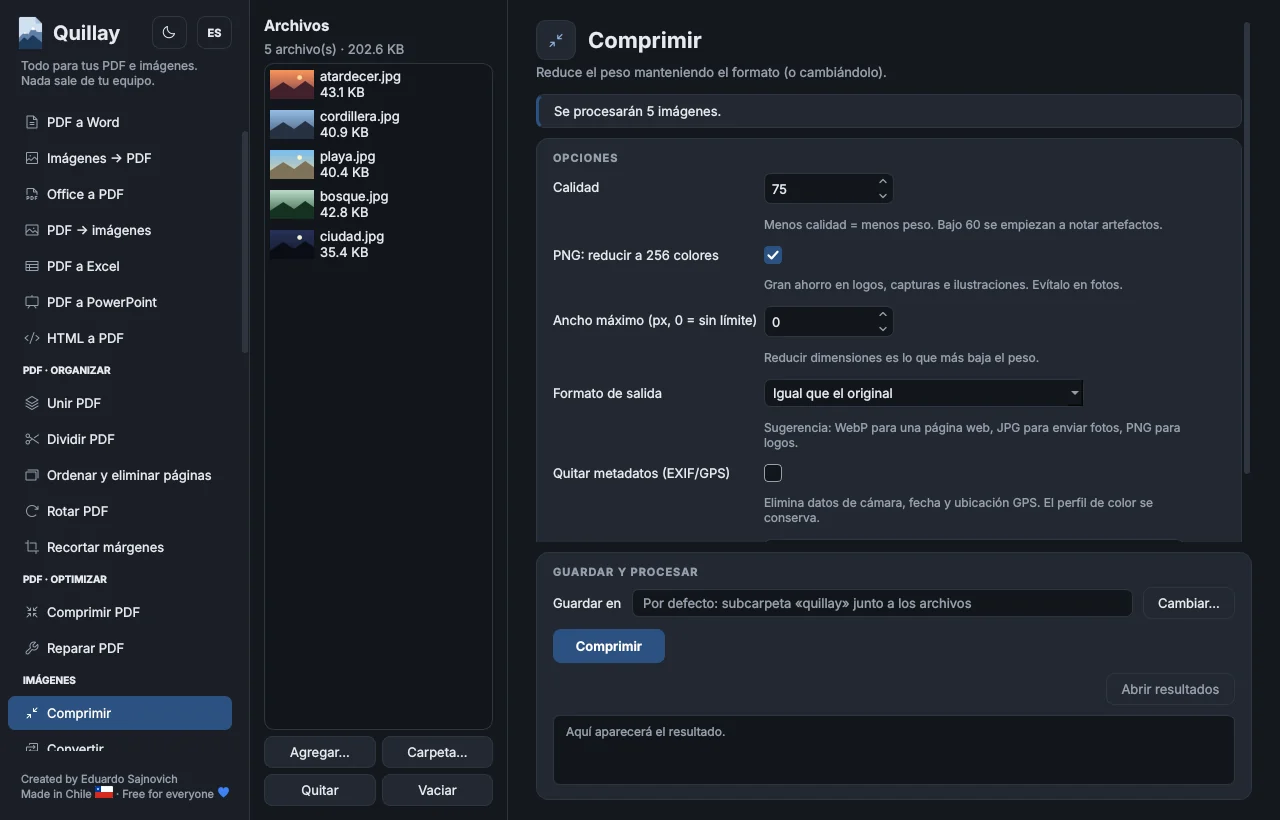
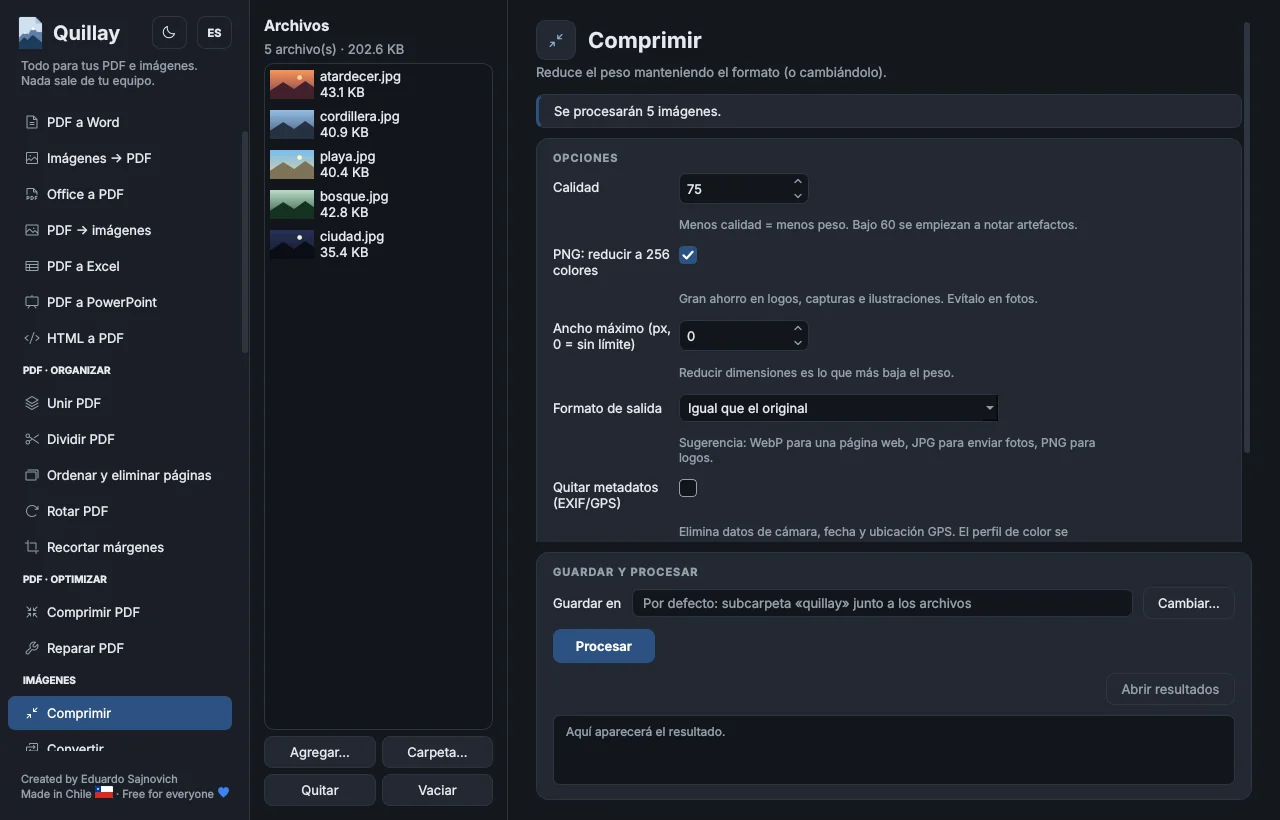
Cambio el botón principal a «Procesar» para que la fila de botones quepa en Windows

diff --git a/src/quillay/gui/pages.py b/src/quillay/gui/pages.py
@@ -126,7 +126,7 @@ class RunPanel(QWidget):
         out_row.addWidget(self.out_edit, 1)
         out_row.addWidget(pick)
 
-        self.run_btn = QPushButton("Procesar")
+        self.run_btn = QPushButton(t("Procesar"))
         self.run_btn.setObjectName("Primary")
         self.run_btn.clicked.connect(self.run_requested)
         self.cancel_btn = QPushButton(t("Cancelar"))
@@ -236,7 +236,9 @@ class ToolPage(QWidget):
         self.tool, self.files = tool, files
         self.form = ParamForm(tool.params)
         self.panel = RunPanel(with_preview=tool.preview is not None)
-        self.panel.run_btn.setText(t(tool.name))
+        # El botón dice «Procesar» y no el nombre de la herramienta (que ya está en el título):
+        # nombres largos como «Ordenar y eliminar páginas» no cabían en Windows.
+        self.panel.run_btn.setToolTip(t(tool.name))
         self.panel.run_requested.connect(self.run)
         self.panel.preview_requested.connect(self.preview)
         self.form.page_order_requested.connect(self._order_pages)

diff --git a/src/quillay/gui/idioma.py b/src/quillay/gui/idioma.py
@@ -47,7 +47,7 @@ EN = {
     # Página de herramienta
     "Opciones": "Options", "Guardar y procesar": "Save & process", "Guardar en": "Save to",
     "Cambiar…": "Change…", "Cancelar": "Cancel", "Abrir resultados": "Open results", "Vista previa": "Preview",
-    "Aquí aparecerá el resultado.": "The result will appear here.", "Ejecutar": "Run",
+    "Aquí aparecerá el resultado.": "The result will appear here.", "Ejecutar": "Run", "Procesar": "Process",
     "Abre la carpeta donde quedaron los archivos generados": "Opens the folder with the generated files",
     "Por defecto: subcarpeta «quillay» junto a los archivos": "Default: a «quillay» subfolder next to the files",
     # Herramientas: nombre y descripción

diff --git a/CHANGELOG.md b/CHANGELOG.md
@@ -9,6 +9,7 @@ Formato basado en [Keep a Changelog](https://keepachangelog.com/es-ES/1.1.0/); v
 - La tarjeta «Guardar y procesar» queda siempre a la vista abajo; si una herramienta tiene muchas opciones, solo se desplaza esa parte y la ventana no se mueve.
 - Las casillas marcadas muestran un visto y los campos numéricos tienen el mismo estilo que el resto, con sus flechas.
 - **Botones de tema e idioma arriba, junto al logo:** la luna y el sol cambian entre tema oscuro y claro (el oscuro es el predeterminado; se quitó la opción «sistema»), y ES/EN cambia el idioma de la ventana (español por defecto). En inglés ya están el menú, los nombres y descripciones de las herramientas, el panel de archivos y la zona de procesar; las opciones de cada herramienta llegan en la próxima versión.
+- El botón principal dice «Procesar» (el nombre de la herramienta ya está en el título y queda como ayuda al pasar el mouse), y las etiquetas de los formularios bajan de línea si no caben.
 - Campos más compactos: los números y el color ocupan poco ancho, los menús un ancho mediano y los textos el resto.
 - La línea entre el panel de archivos y la herramienta es más fina, y el aviso dice «1 imagen» en vez de «1 imágenes».
 
